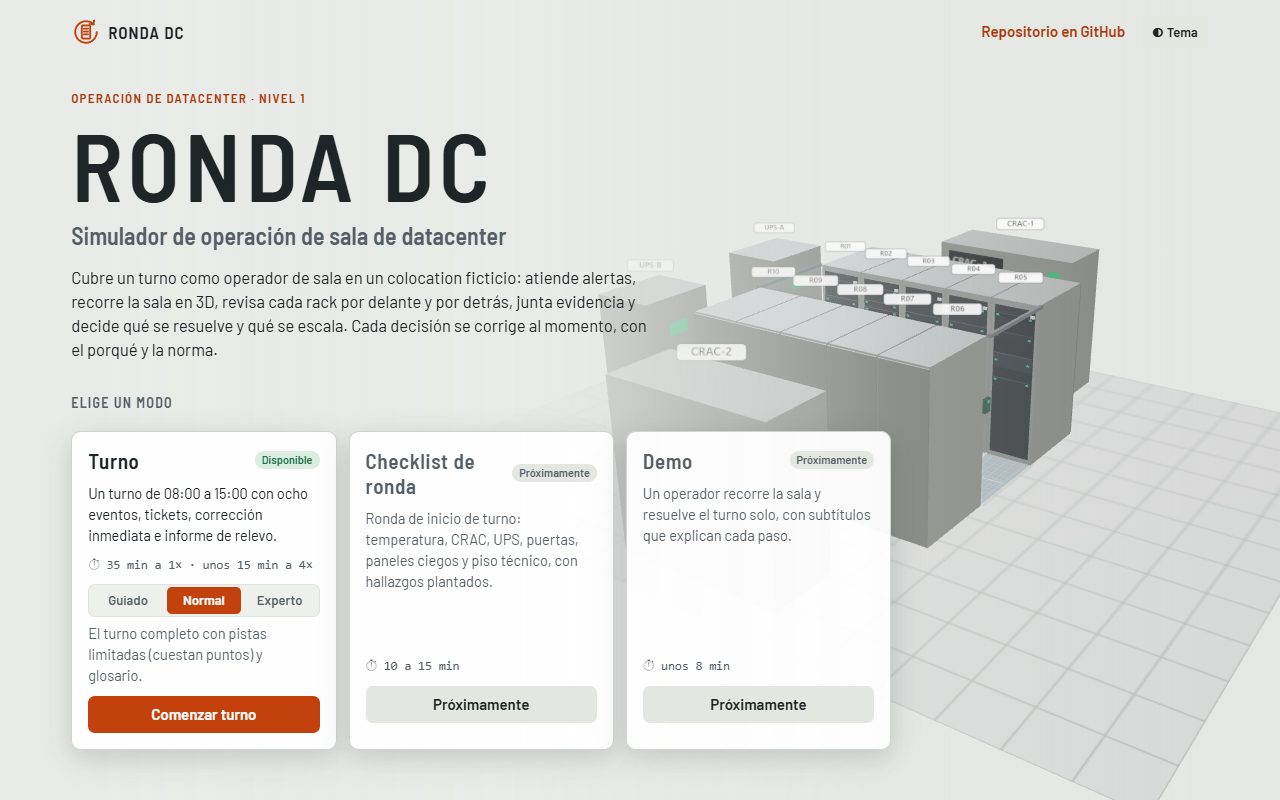
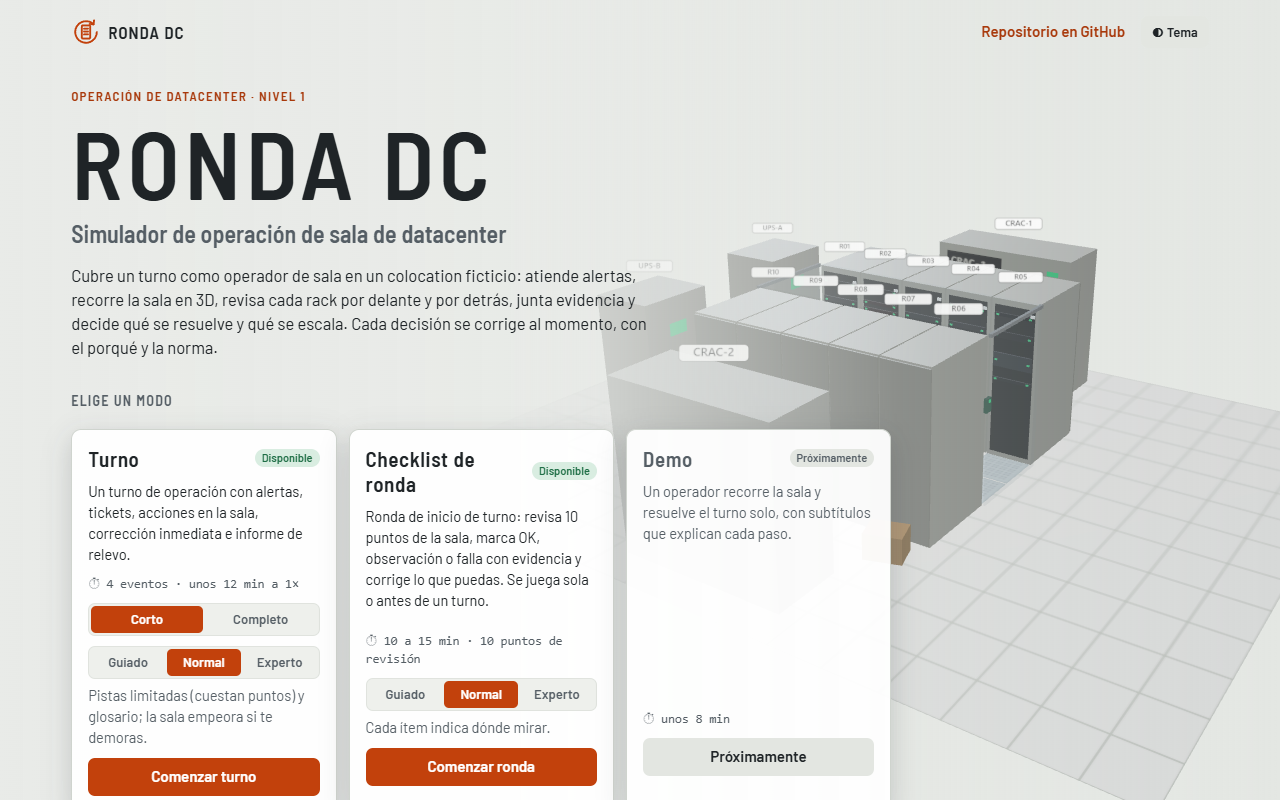
v0.4.0: documentación, capturas y versión
- README: duración Corto/Completo, ⏭, sección y captura del Checklist
  de ronda, rutas #turno/<nivel>/<duración> y #checklist/<nivel>.
- Capturas regeneradas (portada con el selector de duración y el
  Checklist disponible, sala, rack, corrección, transición) y nueva
  docs/capturas/checklist.png.
- CHANGELOG 0.4.0; fecha de la 0.3.0 corregida (15-11-2026).
- ROADMAP: estado al 15-11-2026 (v0.4.0).
- package.json y package-lock.json en 0.4.0.

diff --git a/README.md b/README.md
@@ -8,7 +8,7 @@
 
 <p align="center">
   <b>Simulador 3D de un turno de operación en una sala de datacenter.</b><br>
-  Rondas, alertas, tickets, escalamiento y corrección inmediata. Un solo archivo HTML, sin servidor.
+  Checklist de ronda, alertas, tickets, escalamiento y corrección inmediata. Un solo archivo HTML, sin servidor.
 </p>
 
 <p align="center">
@@ -26,7 +26,7 @@
 
 ## Qué es
 
-**Ronda DC** pone al estudiante en el puesto de un **operador de sala N1** durante un turno de 08:00 a 15:00 en *Cordillera Colo · Sala A*, un colocation ficticio en Santiago con 10 racks de tres clientes, dos CRAC, dos UPS, detección de fugas y control de acceso.
+**Ronda DC** pone al estudiante en el puesto de un **operador de sala N1** durante un turno (corto, de 08:00 a 10:30, o completo, hasta las 15:00) en *Cordillera Colo · Sala A*, un colocation ficticio en Santiago con 10 racks de tres clientes, dos CRAC, dos UPS, detección de fugas y control de acceso.
 
 Las alertas de monitoreo abren tickets. El estudiante recorre la sala en 3D, revisa cada rack U por U, junta evidencia y decide: qué es un problema real, qué prioridad tiene, qué hacer y a quién escalar. Al cerrar cada ticket recibe la corrección al momento, con lo esperado, el porqué y la norma que lo respalda. Si se demora o toma una acción crítica, la sala empeora.
 
@@ -43,7 +43,7 @@ Las alertas de monitoreo abren tickets. El estudiante recorre la sala en 3D, rev
 
 ## Cómo se juega
 
-1. En la portada, elige **Turno** y su nivel (**Guiado**, **Normal** o **Experto**): la cámara entra a la sala y aparece un briefing breve (las mismas instrucciones quedan en el botón **?** durante todo el turno). Luego comienza el turno: el reloj avanza (1 minuto del turno = 5 segundos a 1×) y puedes pausar, acelerar o adelantar al siguiente evento.
+1. En la portada, elige **Turno**, su duración (**Corto**, 4 eventos y unos 12 min, o **Completo**, 8 eventos) y su nivel (**Guiado**, **Normal** o **Experto**): la cámara entra a la sala y aparece un briefing breve (las mismas instrucciones quedan en el botón **?** durante todo el turno). Luego comienza el turno: el reloj avanza (1 minuto del turno = 5 segundos a 1×) y puedes pausar, acelerar o adelantar (⏭) al siguiente evento; si adelantas con tickets abiertos, la sala sigue empeorando.
 2. Las alertas de severidad Advertencia o superior **crean un ticket**. En la sala, los racks con alarma muestran un contorno y un ícono cuya forma indica la prioridad: cuadrado (1), rombo (2), triángulo (3).
 3. **Inspecciona:** clic en racks, CRAC, UPS o el piso. **Doble clic en un rack** para verlo de cerca, por delante y por detrás: cada equipo con sus LED, sus fuentes y la PDU a la que va cada una.
 4. **Adjunta evidencia** (📎) desde la sala, el monitoreo, el calendario de cambios y el registro de accesos.
@@ -59,6 +59,12 @@ Las alertas de monitoreo abren tickets. El estudiante recorre la sala en 3D, rev
 
 ![Tooltip del glosario sobre «IPMI» en el inspector de R08](docs/capturas/glosario.png)
 
+### Checklist de ronda
+
+Antes del turno (o como actividad corta de clase), el estudiante recorre la sala y revisa 10 puntos: temperatura, CRAC, UPS, redundancia A/B, paneles ciegos, puertas, detección de incendios, orden y limpieza, control de acceso y piso técnico. Marca cada uno como **OK**, **observación** o **falla** y adjunta la evidencia desde el inspector. Hay cinco hallazgos plantados; corregir en la sala lo que está a su alcance suma puntos, y al terminar puede comenzar el turno con la sala tal como la dejó. En Guiado, cada ítem explica qué revisar y por qué.
+
+![Checklist de ronda en Guiado: el ítem «Paneles ciegos» marcado como falla, con la evidencia de R08 adjunta](docs/capturas/checklist.png)
+
 | Vista de detalle del rack | Corrección de un ticket |
 |---|---|
 | ![Trasera del rack R06: las dos fuentes de k8s-n7 van a la PDU-B](docs/capturas/rack.png) | ![Corrección del ticket TK-101 con 95 de 100 puntos y la explicación](docs/capturas/correccion.png) |
@@ -72,12 +78,12 @@ Las alertas de monitoreo abren tickets. El estudiante recorre la sala en 3D, rev
 
 ![Portada de Ronda DC con los tres modos y la sala girando de fondo](docs/capturas/portada.png)
 
-Cada modo se puede enlazar directamente: [`#turno`](https://nicsanchezr.github.io/ronda-dc/#turno) (o [`#turno/guiado`](https://nicsanchezr.github.io/ronda-dc/#turno/guiado) y [`#turno/experto`](https://nicsanchezr.github.io/ronda-dc/#turno/experto)), [`#checklist`](https://nicsanchezr.github.io/ronda-dc/#checklist) y [`#demo`](https://nicsanchezr.github.io/ronda-dc/#demo).
+Cada modo se puede enlazar directamente: [`#turno/normal/corto`](https://nicsanchezr.github.io/ronda-dc/#turno/normal/corto) (`#turno/<nivel>/<duración>`, con nivel `guiado`, `normal` o `experto` y duración `corto` o `completo`), [`#checklist/guiado`](https://nicsanchezr.github.io/ronda-dc/#checklist/guiado) (`#checklist/<nivel>`) y [`#demo`](https://nicsanchezr.github.io/ronda-dc/#demo).
 
 | Modo | Estado | Descripción |
 |---|---|---|
-| **Turno** | Disponible | El turno completo de 08:00 a 15:00 con ocho eventos, acciones en sala, corrección por ticket e informe final. Tres niveles: **Guiado** (tutor paso a paso, tutorial de la interfaz, pistas y sin presión de tiempo), **Normal** (pistas limitadas que cuestan puntos) y **Experto** (sin pistas, el reloj no se detiene al cerrar y hay eventos que coinciden). |
-| **Checklist de ronda** | Próximamente | Ronda de inicio de turno con ítems verificables en la sala (temperatura, CRAC, UPS, puertas, paneles ciegos, piso técnico, VESDA, control de acceso), con hallazgos plantados. |
+| **Turno** | Disponible | Corto (08:00–10:30, 4 eventos, unos 12 min) o completo (08:00–15:00, 8 eventos), con acciones en sala, corrección por ticket e informe final. Tres niveles: **Guiado** (tutor paso a paso, tutorial de la interfaz, pistas y sin presión de tiempo), **Normal** (pistas limitadas que cuestan puntos) y **Experto** (sin pistas, el reloj no se detiene al cerrar y hay eventos que coinciden). |
+| **Checklist de ronda** | Disponible | Ronda de inicio de turno de 10 a 15 min: 10 ítems verificables en la sala (temperatura, CRAC, UPS, redundancia A/B, paneles ciegos, puertas, VESDA y extintores, limpieza, control de acceso, piso técnico) con cinco hallazgos plantados, puntaje propio e informe. Se juega sola o antes de un turno, en los tres niveles. |
 | **Demo** | Próximamente | Reproducción automática con un operador que inspecciona, adjunta evidencia y cierra los tickets, con subtítulos. Pensado para ferias y clases. |
 
 **Temas:** *Gris de sala* (por defecto, pensado para proyector) y *Alto rendimiento*, que sigue el criterio ISA-101 de pantallas de operación: todo en grises y color solo para lo anormal. Ambos en claro y oscuro (o según el sistema), con contraste WCAG AA verificado.
@@ -100,7 +106,7 @@ También se citan Uptime Institute Tiers (redundancia), IEEE 1188 (baterías) y 
 
 - **Un solo archivo HTML** (`dist/index.html`, unos 900 KB): JavaScript, CSS, tipografías y escena 3D incluidos.
 - **Sin servidor y sin peticiones externas:** no carga nada de Internet, no tiene analítica ni cookies. Funciona sin conexión.
-- Lo único que se guarda es local, en el navegador (`localStorage`): el último puntaje, el nivel y el tema elegidos.
+- Lo único que se guarda es local, en el navegador (`localStorage`): el último puntaje, el nivel, la duración y el tema elegidos.
 - [Three.js](https://threejs.org) 0.160 para la escena 3D y [esbuild](https://esbuild.github.io) para empaquetar.
 - Empresa, personas, clientes, equipos y modelos son **ficticios**.
 
@@ -115,7 +121,7 @@ npm run contrast     # verifica el contraste WCAG AA de los temas
 npm test             # compila y corre las pruebas de Playwright (Edge en Windows, Chromium en CI)
 ```
 
-Abre `dist/index.html` directamente en el navegador. En cada push a `main`, GitHub Actions corre las pruebas (partida perfecta, impactos, nivel Guiado, hallazgo proactivo, acción declarada sin hacer, glosario, temas y transiciones) y, solo si pasan, publica `dist/` en GitHub Pages.
+Abre `dist/index.html` directamente en el navegador. En cada push a `main`, GitHub Actions corre las pruebas (partida perfecta, impactos, nivel Guiado, hallazgo proactivo, acción declarada sin hacer, turno corto y ⏭, checklist de ronda, glosario, temas y transiciones) y, solo si pasan, publica `dist/` en GitHub Pages.
 
 Estructura y convenciones del código: [`.claude/CLAUDE.md`](.claude/CLAUDE.md). Próximas mejoras: [`docs/ROADMAP.md`](docs/ROADMAP.md). Historial: [`CHANGELOG.md`](CHANGELOG.md).
 
@@ -134,7 +140,7 @@ Creado por **Nicolás Sánchez Rodríguez**. Inspirado en el enfoque de [Blue-Jr
 **Ronda DC** is a 3D, browser-based simulator of a shift as a level-1 operator on a data center floor. Monitoring alerts open tickets; you walk the room, inspect racks unit by unit (front and rear, with LEDs, power supplies and A/B PDUs), attach evidence, then classify, prioritise, act and escalate. Each ticket is graded on the spot with the expected answer, the reasoning and the standard behind it (ASHRAE TC 9.9, TIA-942, ISO/IEC 27001, ISO/IEC 20000, ITIL). The shift ends with a score, MTTA/MTTR, availability and a Markdown handover report.
 
 - **Play it:** <https://nicsanchezr.github.io/ronda-dc/>
-- **Modes:** Shift (available; Guided, Normal and Expert levels), Rounds checklist and Demo (coming soon).
+- **Modes:** Shift (short, 4 events and about 12 minutes, or full, 8 events; Guided, Normal and Expert levels), Rounds checklist (available: 10 items marked OK / observation / fault with evidence, five planted findings, its own score and report) and Demo (coming soon).
 - **Hands-on actions:** fix things in the room (reseat a sensor, install blanking panels, contain a leak, take photos…); customer equipment requires their authorisation. Declaring an action you did not perform counts as an error.
 - **Glossary:** technical terms are underlined with beginner-friendly definitions, also on touch screens.
 - **Themes:** *Floor grey* (default) and *High performance* (ISA-101 style), each in light and dark.

diff --git a/CHANGELOG.md b/CHANGELOG.md
@@ -2,7 +2,25 @@
 
 Formato basado en [Keep a Changelog](https://keepachangelog.com/es-ES/1.1.0/). Versiones según [SemVer](https://semver.org/lang/es/).
 
-## [0.3.0] · 2026-11-16
+## [0.4.0] · 2026-11-15
+
+### Agregado
+- **Duración de las partidas:** en la tarjeta Turno se elige **Corto** (4 eventos, de 08:00 a 10:30, unos 12 min reales a 1×: E1 benigno, E3 paneles ciegos, E6 falla crítica de CRAC-2 y E7 fuga) o **Completo** (los 8 eventos, unos 35 min a 1×). Rutas `#turno/<nivel>/<duración>`; sin duración, completo.
+- **Checklist de ronda** (`#checklist/<nivel>`): ronda de inicio de turno con 10 ítems que se marcan OK, observación o falla, con evidencia adjuntada desde el inspector. Cinco hallazgos plantados: bandeja de condensado de CRAC-1 casi llena, k8s-n7 con las dos fuentes en PDU-B, paneles ciegos faltantes en R08, extintor de CO₂ vencido y una caja de embalaje junto a R06 (nueva acción «Retirar el embalaje»). Puntaje propio (revisado, estado y evidencia; marcar sin revisar no suma) con +3 por hallazgo corregido, resultado con el hallazgo y su referencia, e informe Markdown. Se juega sola (10 a 15 min) o antes de un turno: «Comenzar el turno con esta sala» conserva lo corregido. Disponible en los tres niveles: en Guiado cada ítem explica qué revisar y por qué.
+- Panel junto a la puerta de la sala con el estado de la detección de humo (VESDA) y del extintor.
+- Pruebas: turno corto, ⏭ con tickets abiertos y durante una acción, y cuatro pruebas del checklist.
+
+### Cambiado
+- **⏭ siempre disponible:** adelanta al siguiente evento o al fin de la acción en curso. Con tickets abiertos ya no se bloquea: avisa que la sala seguirá empeorando (en Guiado, que no empeora).
+- **Tutorial de Guiado** en 4 pasos, con botón «Saltar tutorial».
+- Créditos: «Creado por Nicolás Sánchez Rodríguez». `CLAUDE.md` pasa a `.claude/CLAUDE.md`, reescrito para quien contribuya.
+- ROADMAP: nuevos puntos de escenarios propios cargables (JSON declarativo, local), desafíos con eventos encadenados y editor de escenarios.
+
+### Corregido
+- La recirculación de R08 y la carga de la PDU-B ya no dependen de horarios fijos: siguen el calendario de eventos del turno elegido.
+- Fecha de la versión 0.3.0 (era el 15-11-2026).
+
+## [0.3.0] · 2026-11-15
 
 ### Agregado
 - **Acciones en sala** desde el inspector (22 acciones: reubicar el sensor de R04, instalar paneles ciegos, levantar la baldosa, colocar absorbente, fotografiar, asegurar la puerta, subir CRAC-1…), con confirmación neutra, reloj a 8× con indicador de progreso, animación 3D y registro en la bitácora. La dinámica de la sala responde a la acción real.

diff --git a/docs/ROADMAP.md b/docs/ROADMAP.md
@@ -1,6 +1,6 @@
 # Roadmap · Ronda DC
 
-> Estado al 16-11-2026 (v0.3.0): hechos los puntos 0, 1 y 2, y en parte el 5; además, acciones en sala, niveles con tutor, glosario y pruebas automáticas. Siguen el 3 (Checklist de ronda), el 4 (Demo) y el selector ES/EN. Historial en [`CHANGELOG.md`](../CHANGELOG.md); contexto del código en [`.claude/CLAUDE.md`](../.claude/CLAUDE.md).
+> Estado al 15-11-2026 (v0.4.0): hechos los puntos 0, 1, 2 y 3, y en parte el 5; además, acciones en sala, niveles con tutor, glosario, turno corto y pruebas automáticas. Siguen el 4 (Demo), el selector ES/EN y los nuevos puntos 6 (escenarios propios cargables), 7 (desafíos) y 8 (editor de escenarios). Historial en [`CHANGELOG.md`](../CHANGELOG.md); contexto del código en [`.claude/CLAUDE.md`](../.claude/CLAUDE.md).
 
 ## 0. Cambio de nombre a Ronda DC ✅
 - Reemplazar "Turno de Sala" por "Ronda DC" en el título, la cabecera, la portada, el informe Markdown, la clave de localStorage (`ronda-dc-ultimo`, migrando la anterior si existe), package.json y README.
